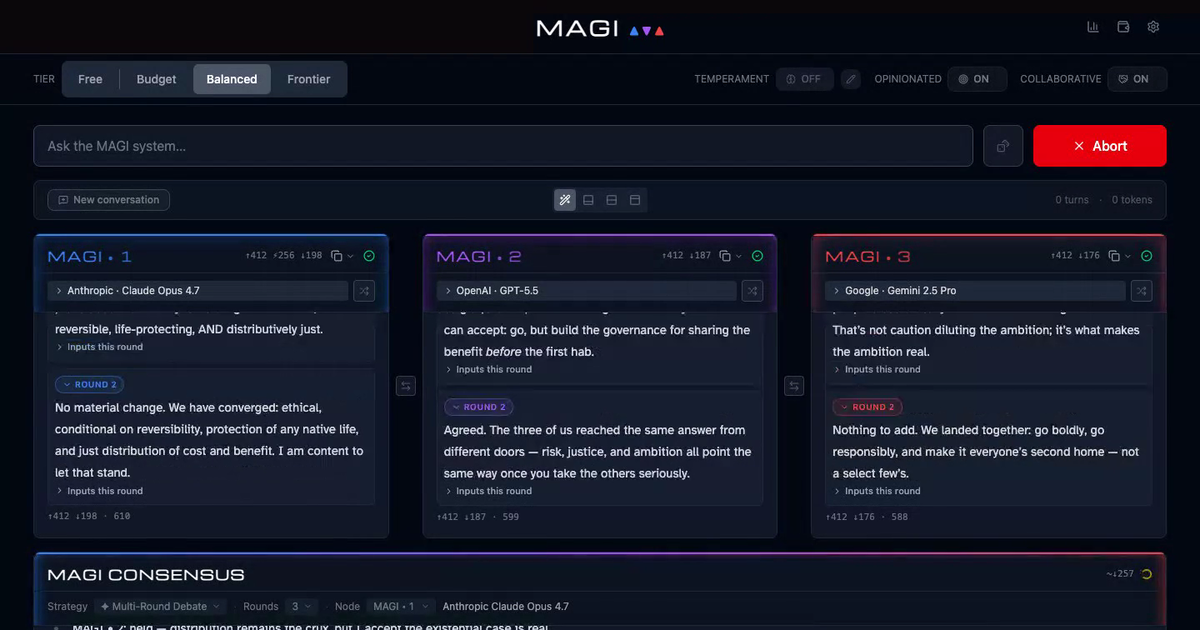
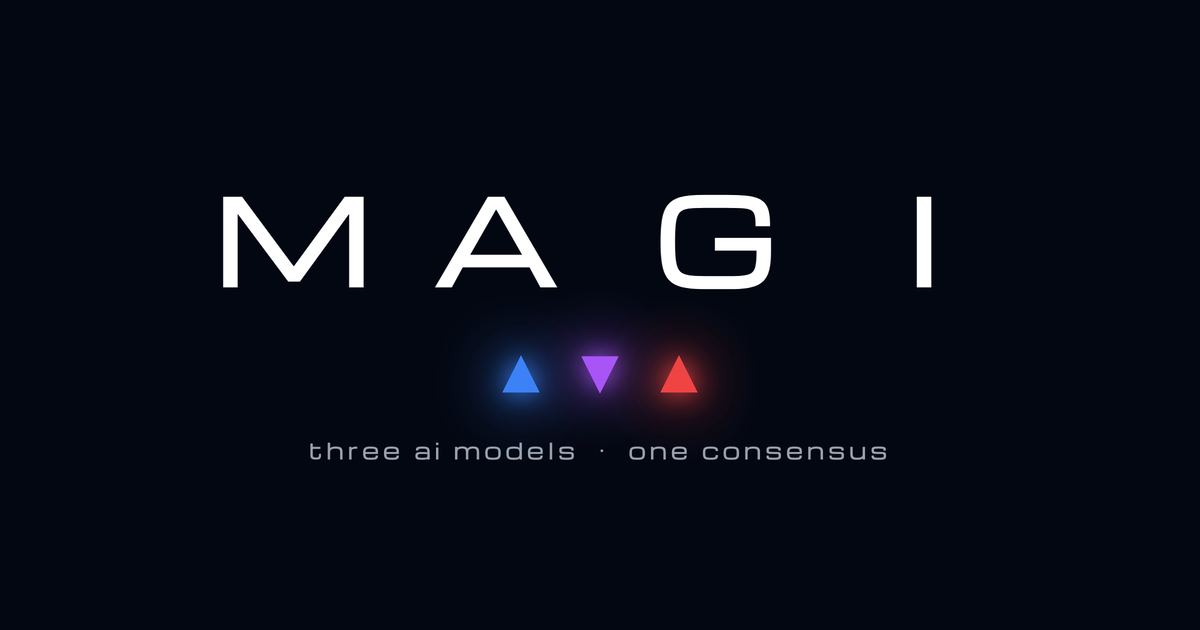
feat(meta): replace the og:image screenshot with a rendered splash card
A UI screenshot risks catching the decode animation mid-scramble and reads
as clutter at thumbnail size. Recreate the splash's settled end state as a
purpose-built 1200x630 card instead — Michroma wordmark, nebula triad at
the glow keyframe's mid-bloom, the boot tagline — rendered from static CSS
(headless chromium at 2x, downscaled), so it's deliberately composed rather
than captured. 62 KB vs the screenshot's 412 KB.

diff --git a/src/app.html b/src/app.html
@@ -24,7 +24,7 @@
 		<meta property="og:image:height" content="630" />
 		<meta
 			property="og:image:alt"
-			content="The MAGI interface: three AI model panels debating in parallel above a consensus panel."
+			content="The MAGI wordmark over a glowing blue, purple, and red triangle triad — three ai models, one consensus."
 		/>
 		<meta name="twitter:card" content="summary_large_image" />
 		<meta name="twitter:title" content="MAGI — Three AI models. One consensus." />